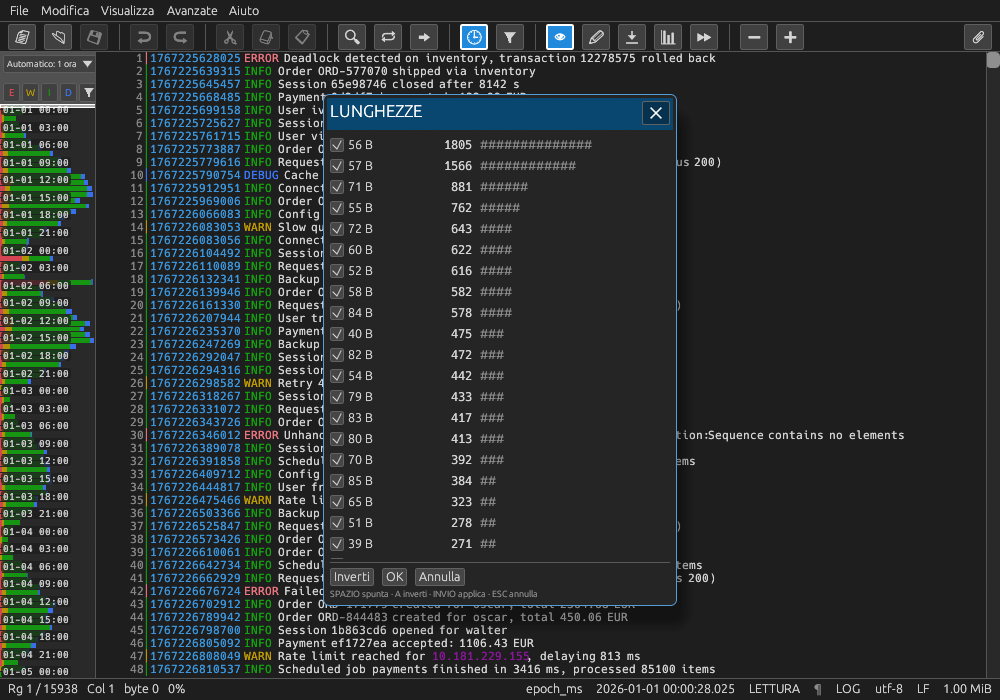
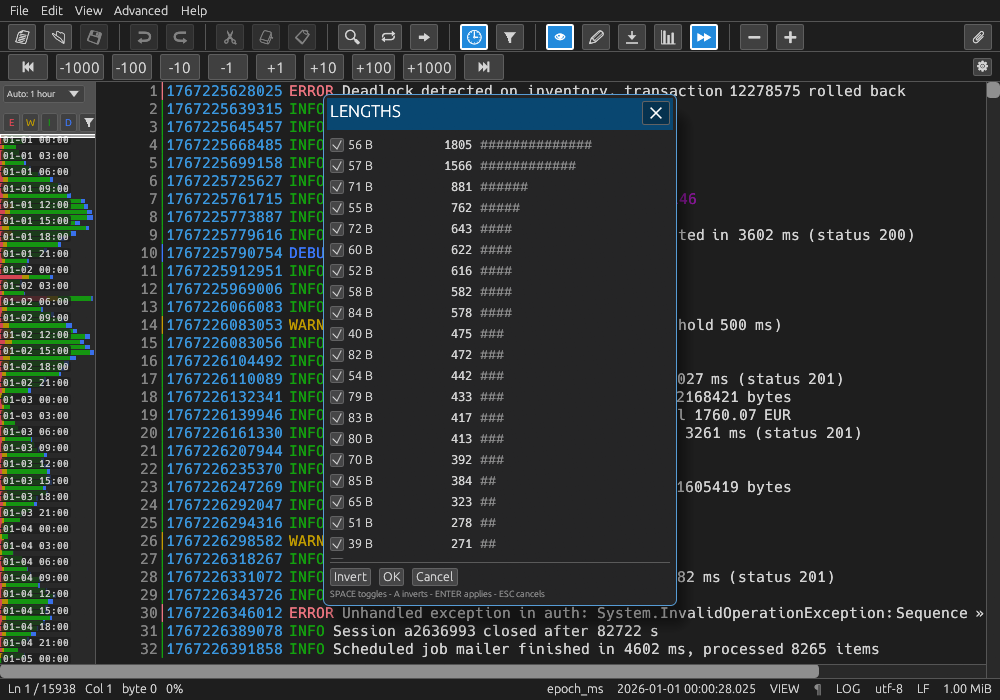
fix(docs): le schermate nella lingua del manuale e senza nome utente - il primo giro prendeva le impostazioni della macchina (interfaccia italiana per un manuale inglese): ora --settings punta a un percorso pulito (C:\temp\mrp-manuale-gui), inglese di fabbrica e deterministico; il percorso delle imp

diff --git a/bench/make_docs_images.py b/bench/make_docs_images.py
@@ -31,7 +31,7 @@ SCATTI = [
     ('n04-vai', ['goto'], [], 0),
     ('n05-salti', ['salti'], [], 0),
     ('m02-modi', ['modi'], [], 0),
-    ('m08-tail', ['tail'], [], 0),
+    ('m08-tail', ['tail'], [], 600),
     ('t01-formato', ['formato'], [], 0),
     ('t03-intervallo', ['calendario'], [], 0),
     ('t04-timeline', ['timeline'], [], 1500),
@@ -63,6 +63,16 @@ def ambiente(**variabili):
     return env
 
 
+def percorso_impostazioni():
+    """A portable settings path with no user name in it (it shows in the Settings screenshot)."""
+    base = r'C:\temp' if os.name == 'nt' else '/tmp'
+    try:
+        os.makedirs(os.path.join(base, 'mrp-manuale-gui'), exist_ok=True)
+        return os.path.join(base, 'mrp-manuale-gui', 'settings.json')
+    except OSError:
+        return os.path.join(tempfile.gettempdir(), 'mrp-manuale-gui-settings.json')
+
+
 def scatta(nome, azioni, extra, attesa, cartella):
     """One screenshot: MRPG_SCREENSHOT saves it and exits after a few frames."""
     file = [scompatta('epoch', cartella)] + [scompatta(e, cartella) for e in extra]
@@ -73,7 +83,14 @@ def scatta(nome, azioni, extra, attesa, cartella):
         env['MRPG_IMPOSTAZIONI'] = '1'
     elif azioni:
         env['MRPG_AZIONE'] = ','.join(azioni)
-    subprocess.run([EXE, '--theme', 'dark'] + file, env=env, check=True, timeout=120)
+    # --settings su un percorso che non c'e': impostazioni pulite (inglese, niente memoria della
+    # macchina) — le schermate del manuale sono deterministiche e nella lingua del manuale
+    subprocess.run(
+        [EXE, '--theme', 'dark', '--settings', percorso_impostazioni()] + file,
+        env=env,
+        check=True,
+        timeout=120,
+    )
     print('scatto:', nome)
 
 
@@ -87,7 +104,14 @@ def filmato(cartella):
         MRPG_FILM_MS='140',
     )
     subprocess.run(
-        [EXE, '--theme', 'dark', scompatta('epoch', cartella)],
+        [
+            EXE,
+            '--theme',
+            'dark',
+            '--settings',
+            percorso_impostazioni(),
+            scompatta('epoch', cartella),
+        ],
         env=env,
         check=True,
         timeout=180,
